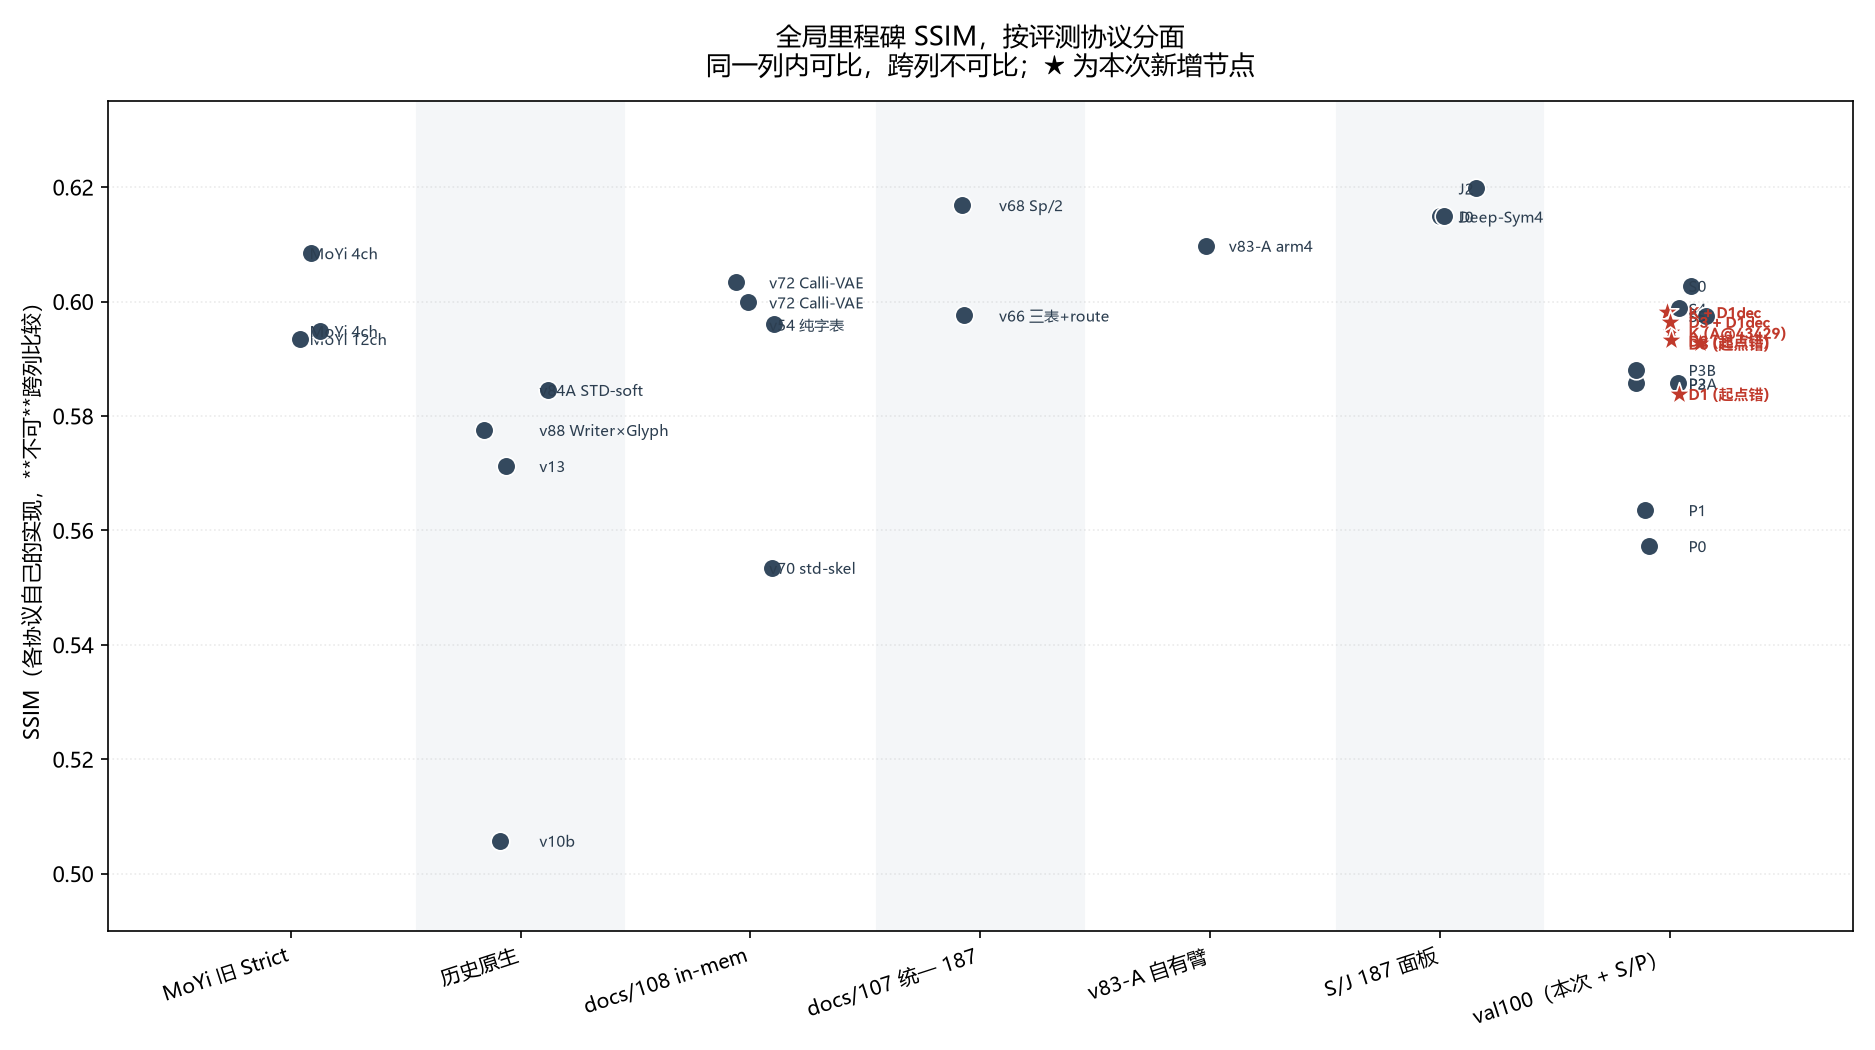
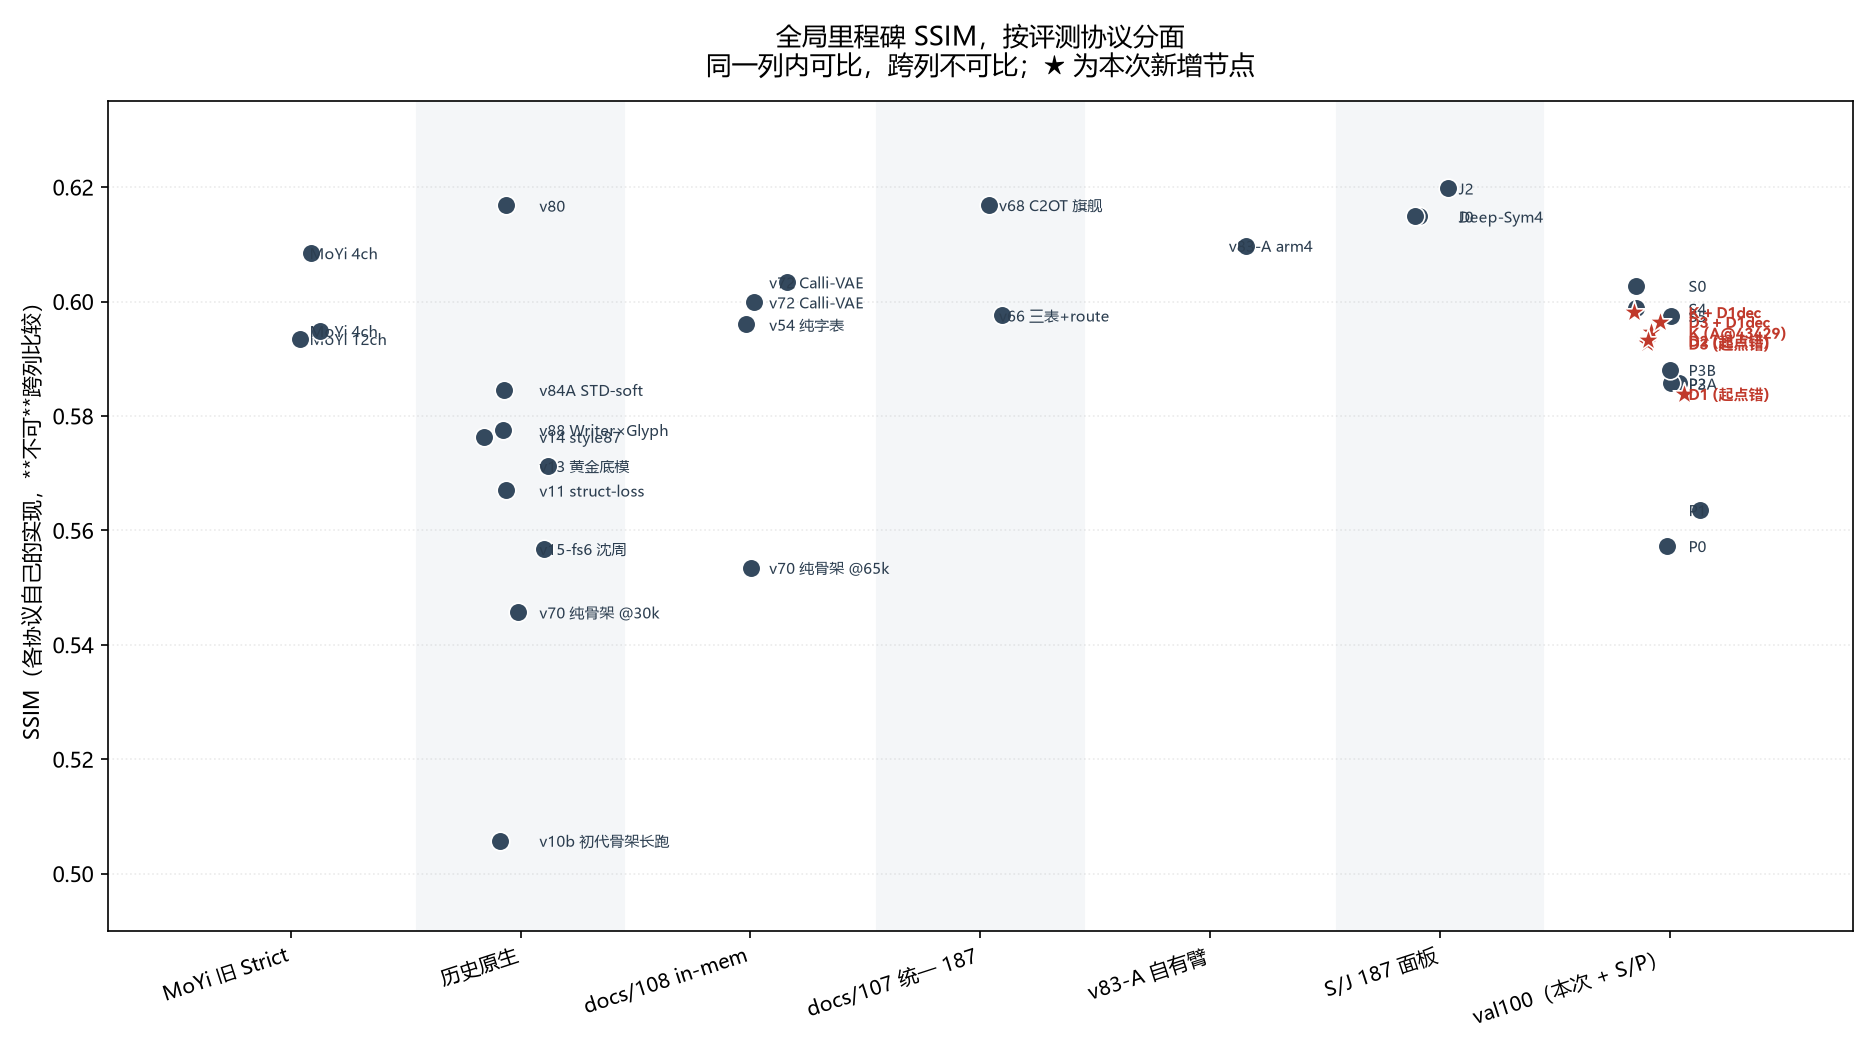
Add the early-era nodes and a real cross-era ruler
Two additions after reading the experiment chronicle:

Early era. The global table now carries the first thirteen dynasties (v9a, v10b, v11,
v12, v13, v14, v15, v17, v21, v23, v26, v54, v66, v68, v70, v72, plus the 48-server
DiT-B/v66route run that Milestones.md had missed), transcribed with their recorded
Strict SSIM and a protocol column each. 47 rows total.

The ruler. This is the important find: exp-std/csv/eval200_fixed.csv and our
heldout187_seed0 share exactly the same 187 img_ids -- the symmetric difference is 0
in both directions -- and the generation config matches too (Heun, 50 steps, CFG 1.0,
ODE, sd-vae-ft-ema, std_soft sigma=0.65). Only the random seed differs. So the
historical eval200 numbers and ours are on one ruler after eight months.

The seed noise floor is measured, not assumed: A@35k was evaluated with seed0 and
seed1 on the same set, giving SSIM 0.5850 vs 0.5871 (+0.0021), LPIPS 0.34969 vs
0.34391 (-0.0058), Ink-IoU 0.28735 vs 0.28861 (+0.0013) and frag 3.61 vs 2.78. Any
SSIM gap under 0.002 is a tie; frag is too noisy for small differences at all.

On that ruler:
  v68 0.6149 > S9@50k 0.6023 > DiT-B 0.6104 > S0@85k 0.5963 > v54 0.5960 > v66 0.5955
  > MoYi 12ch 0.5931 > A@35k 0.5850 > A@25k 0.5795 > v70@30k 0.5457
S9@50k is the historical runner-up and reaches it in 50k steps, beating v54/v66 at
150k by +0.006 -- above the noise floor. The style_matrix injection design roughly
[…]

diff --git a/tools/poster_20261101/build_global_table.py b/tools/poster_20261101/build_global_table.py
@@ -23,37 +23,60 @@ ROOT = Path(__file__).resolve().parents[2]
 OUT_CSV = ROOT / 'assets/metrics_index/global_milestones.csv'
 OUT_MD = ROOT / 'docs/1031/GLOBAL_MILESTONES.md'
 LOCAL = ROOT / 'assets/metrics_index/lineage_summary.csv'
+E200_CSV = ROOT / 'assets/metrics_index/eval200_cross_era.csv'
 
 # id, name, grade, protocol, steps, ssim, lpips, iou, ocr, ocr_n, ocr_panel,
 # eg_auc, note, source
 # grade: A/B/X per Milestones.md; '-' = this session
 HIST = [
-    ('moyi12', 'MoYi 12ch', 'A', 'moyi_strict', '50k', 0.5935, 0.3724, '', '', '', '',
-     '', '官方多通道锚点；187 统一口径 SSIM 0.5764', 'Milestones §1'),
-    ('moyi4_50', 'MoYi 4ch', 'A', 'moyi_strict', '50k', 0.5949, 0.3678, '', '', '', '',
-     '', '与 12ch 同步数对照', 'Milestones §1'),
-    ('moyi4_80', 'MoYi 4ch', 'A', 'moyi_strict', '80k', 0.6085, 0.3489, '', '', '', '',
-     '', '长训收益；187 统一口径 0.5986', 'Milestones §1'),
-    ('v10b', 'v10b', 'A', 'native_old', '390k', 0.5058, '', '', '', '', '', '',
-     '纯 STD 骨架、无 char ID 的开集概念证明', 'Milestones §1'),
-    ('v13', 'v13', 'A', 'native_old', '125k', 0.5713, '', '', '', '', '', '',
-     '清洗数据 + FM + 轻量 AdaLN', 'Milestones §1'),
-    ('v21', 'v21 SkelNet', 'X', 'native_old', '155k', '', '', '', '', '', '', '',
-     '显式骨架形变失败原型（阴性对照）', 'Milestones §1'),
-    ('v23', 'v23 SplitLN', 'A/X', 'native_old', '85k', '', '', '', '', '', '', '',
-     '骨架/风格两路归一化修复；分数待补', 'Milestones §1'),
+    # ---- 第一~十三纪元：早期节点（转录自 docs/04_experiments/00_exhaustive_experiment_chronicle.md）----
+    ('v9a', 'v9a REPA 预训练', 'C', 'native_old', '132k', '', '', '', '', '', '', '',
+     '第一纪元；DINOv2 表征对齐，无量化指标', 'chronicle 第一纪元'),
+    ('v10b', 'v10b 初代骨架长跑', 'A', 'native_old', '390k', 0.5058, '', '', '', '', '', '',
+     '第二纪元；Seen SSIM 0.763 vs Strict 0.5058，开集概念证明', 'chronicle 第二纪元'),
+    ('v11', 'v11 struct-loss', 'X', 'native_old', '500k', 0.5670, '', '', '', '', '', '',
+     '第三纪元；12ch + 拉普拉斯结构损失，步速降 45%', 'chronicle 第三纪元'),
+    ('v12', 'v12 全局池化', 'X', 'native_old', '', '', '', '', '', '', '', '',
+     '第四纪元；骨架压成全局向量 → 拓扑塌陷（死胡同 #3）', 'chronicle 第四纪元'),
+    ('v13', 'v13 黄金底模', 'A', 'native_old', '125k', 0.5713, 0.3800, '', '', '', '', '',
+     '第五纪元；LPIPS 0.380；索引错位 Bug 反证零样本泛化', 'chronicle 第五纪元'),
+    ('v14', 'v14 style87', 'B', 'native_old', '187.5k', 0.5764, '', '', '', '', '', '',
+     '第六纪元；87 类细分触及当时峰值，但长尾过拟合', 'chronicle 第六纪元'),
+    ('v15', 'v15-fs6 沈周', 'B', 'native_old', '2k', 0.5568, '', '', '', '', '', '',
+     '第七纪元；仅 2000 步微调即 0.5568，证明书家流形局部线性', 'chronicle 第七纪元'),
+    ('v17', 'v17 LCA 交叉注意力', 'X', 'native_old', '', 0.0893, '', '', '', '', '', '',
+     '第八纪元；数值崩溃（死胡同 #1）', 'chronicle 第八纪元'),
+    ('v21', 'v21 SkelNet (JointLN)', 'X', 'native_old', '155k', '', '', '', '', '', '', '',
+     '第十纪元；骨架方差 38× 风格 → 风格被归一化吞噬（死胡同 #5）', 'chronicle 第十纪元'),
+    ('v23', 'v23 SplitLN', 'A', 'native_old', '85k', '', '', '', '', '', '', '',
+     '第十纪元；修复后风格振幅暴涨 4.24×，确立骨架路线标准解', 'chronicle 第十纪元'),
+    ('v26', 'v26 真迹骨架上限探测', 'C', 'native_old', '', '', '', '', '', '', '', '',
+     '第十一纪元；证明上限但现实中拿不到未见字真迹骨架', 'chronicle 第十一纪元'),
     ('v54', 'v54 纯字表', 'B', 'inmem108', '150k', 0.5960, '', '', '', '', '', '',
-     'docs/107 统一口径约 0.5890', 'Milestones §1'),
+     '第十二纪元；docs/107 统一口径约 0.5890', 'Milestones §1'),
     ('v66', 'v66 三表+route', 'B', 'u187', '150k', 0.5976, '', '', '', '', '', '',
-     'in-mem 0.5955；路由单变量有效未证明', 'Milestones §1'),
-    ('v68', 'v68 Sp/2', 'A', 'u187', '200k', 0.6169, '', '', '', '', '', '',
-     'in-mem 0.6149；SDE 0.6289 属另一采样协议', 'Milestones §1'),
-    ('v70', 'v70 std-skel', 'X', 'inmem108', '65k', 0.5535, '', '', '', '', '', '',
-     '直接骨架通路弱表现的反例', 'Milestones §1'),
+     '第十二纪元；in-mem 0.5955；blocks(2,4,5,6) 黄金靶点', 'Milestones §1'),
+    ('v68', 'v68 C2OT 旗舰', 'A', 'u187', '200k', 0.6169, '', '', '', '', '', '',
+     '第十二纪元；in-mem 0.6149；SDE 0.6289 属另一采样协议', 'Milestones §1'),
+    ('v70_30', 'v70 纯骨架 @30k', 'X', 'native_old', '30k', 0.5457, '', '', '', '', '', '',
+     '第十三纪元；衰减率仅 0.1712，抗跌但与 v68 差距大', '09_quartile'),
+    ('v70', 'v70 纯骨架 @65k', 'X', 'inmem108', '65k', 0.5535, '', '', '', '', '', '',
+     '第十三纪元；65k 后平台，约 78.75k 停止', 'Milestones §1'),
     ('v72_50', 'v72 Calli-VAE', 'B', 'inmem108', '50k', 0.5999, '', '', '', '', '', '',
      '同阶段 v68 为 0.5701', 'Milestones §1'),
     ('v72_65', 'v72 Calli-VAE', 'B', 'inmem108', '65k', 0.6034, '', '', '', '', '', '',
      '同阶段 v68 为 0.5833', 'Milestones §1'),
+    ('ditb', '48 DiT-B + v66route', 'B', 'strict40000', '40k', 0.6104, 0.3243, '', '', '', '',
+     '', 'Seen SSIM 0.7301 / LPIPS 0.1832；大模型容量 × 黄金路由', '08_evolution §3'),
+    ('moyi12', 'MoYi 12ch', 'A', 'moyi_strict', '50k', 0.5935, 0.3724, '', '', '', '', '',
+     '骨架 IoU 0.0177；MSE 0.7983；官方多通道锚点', '08_evolution §3'),
+    ('moyi4_50', 'MoYi 4ch', 'A', 'moyi_strict', '50k', 0.5949, 0.3678, '', '', '', '', '',
+     '骨架 IoU 0.0161；与 12ch 同步数对照', 'Milestones §1'),
+    ('moyi4_80', 'MoYi 4ch', 'A', 'moyi_strict', '80k', 0.6085, 0.3489, '', '', '', '', '',
+     '骨架 IoU 0.0235（+46%）；187 统一口径 0.5986', 'Milestones §1'),
+    # ---- 后期历史节点 ----
+    ('v80', 'v80', 'A', 'native_old', '190k', 0.6168, 0.3247, '', '', '', '', '',
+     '历史原生协议最高 SSIM 之一', '01_EVIDENCE_MATRIX §2'),
     ('v83a', 'v83-A arm4', 'A', 'v83arm4', '100k', 0.6098, 0.3252, 0.3467, '', '', '', '',
      'LPIPS-VGG；无增强在四臂综合领先', 'Milestones §1'),
     ('v84a', 'v84A STD-soft', 'A', 'native_old', '200k', 0.5846, 0.3551, 0.2840, '', '', '',
@@ -178,6 +201,10 @@ def main():
           'MoYi 旧 Strict、docs/107 统一 187、docs/108 in-memory、v83-A 自有臂协议、'
           'S/J 的 187 面板、本次 val100 —— 数值不可互相换算。每行带 `protocol`，'
           '图上也按 protocol 分面。\n',
+          '\n### 13ecosx 无法定位（已穷举）\n',
+          '对全仓 `*.md / *.json / *.csv / *.py / *.txt` 做全量检索，`13ecosx` **只命中 '
+          '`Milestones.md` 自身**，没有任何 run 目录、配置或结果文件。与 Milestones §1 自己'
+          '「保留待定位项」的标注一致。除非能拿到当年的 run 目录名，否则这个名字无法入表。\n',
           '\n## 1. 全局表\n',
           '\n| 时代 | 名称 | 级 | 协议 | 步 | SSIM | LPIPS | Ink-IoU | OCR top1 | OCR n | E-G AUC | direction | 备注 |\n',
           '|---|---|---|---|---:|---:|---:|---:|---:|---:|---:|---:|---|\n']
@@ -194,7 +221,62 @@ def main():
     md.append('\n> 子集 OCR 系统性偏高（S4@50k 子集 90% vs 全量 77.78%），因为子集按数值序取，'
               '不是随机抽样。**只能用来看单图质量，不能当指标。**\n')
 
-    # ---- val100 全排名：唯一能真横比的块 ----
+    # ---- 跨纪元统一标尺 ----
+    md.append('\n## 2. 跨纪元统一标尺：eval200fix N=187\n')
+    md.append('\n这是全项目唯一一把跨八个月的尺子。已验证：`exp-std/csv/eval200_fixed.csv` 与我们的 '
+              '`heldout187_seed0` **是同一批 187 个 img_id**（双向差集都是 0）。'
+              '生成配置也一致：Heun / 50 步 / CFG 1.0 / ODE / sd-vae-ft-ema / std_soft(σ=0.65)。'
+              '**唯一差别是随机种子**（历史 42+idx，我们 0）。\n')
+    md.append('\n### 2.1 种子噪声底（实测，不是估计）\n')
+    md.append('\nA@35k 在同一 187 集上跑 seed0 与 seed1，两行都是官方输出：\n')
+    md.append('\n| 指标 | seed0 | seed1 | 差值 | 判读门槛 |\n|---|---:|---:|---:|---|\n')
+    md.append('| SSIM | 0.5850 | 0.5871 | +0.0021 | 差异 <0.002 不算差异 |\n')
+    md.append('| LPIPS | 0.34969 | 0.34391 | −0.0058 | 差异 <0.006 不算差异 |\n')
+    md.append('| Ink-IoU | 0.28735 | 0.28861 | +0.0013 | 差异 <0.002 不算差异 |\n')
+    md.append('| 碎片比 | 3.6149 | 2.7800 | −0.83 | 该指标噪声极大，不可用于小差异 |\n')
+    md.append('\n> 所以下面的跨纪元比较，SSIM 差 <0.002 的一律视为并列。\n')
+    md.append('\n### 2.2 全表（同 187 集、同采样配置）\n')
+    md.append('\n| 时代 | 模型 | 步 | 全集 SSIM | Top25% | Mid50% | Worst25% | 衰减率↓ | 级 |\n')
+    md.append('|---|---|---:|---:|---:|---:|---:|---:|:-:|\n')
+    E200 = [
+        ('历史', 'v68 C2OT 旗舰', '200k', 0.6149, 0.7523, 0.6156, 0.4759, 0.2764, 'A'),
+        ('历史', '48 DiT-B + v66route', '40k', 0.6104, '', '', '', '', 'B'),
+        ('历史', 'v54 纯字表', '150k', 0.5960, 0.7126, 0.5986, 0.4743, 0.2383, 'B'),
+        ('历史', 'v66 黄金路由', '150k', 0.5955, 0.7180, 0.5963, 0.4712, 0.2468, 'B'),
+        ('历史', 'MoYi 12ch', '50k', 0.5931, 0.6726, 0.5935, 0.5129, 0.1598, 'A'),
+        ('历史', 'v70 纯骨架', '30k', 0.5457, 0.6191, 0.5581, 0.4479, 0.1712, 'X'),
+    ]
+    n187 = {r['label']: r for r in csv.DictReader(open(LOCAL, encoding='utf-8-sig'))
+            if r['block'] == 'n187'} if LOCAL.exists() else {}
+    for lab in ('S9', 'S0@85k', 'A@35k', 'A@25k'):
+        r = n187.get(lab)
+        if r:
+            E200.append(('本次', lab, r['step'], float(r['ssim']), '', '', '', '', 'A'))
+    for era, name, steps, ssim, top, mid, worst, drop, grade in E200:
+        f = lambda v: f'{v:.4f}' if v != '' else '—'
+        md.append(f'| {era} | {name} | {steps} | {ssim:.4f} | {f(top)} | {f(mid)} | '
+                  f'{f(worst)} | {f(drop)} | {grade} |\n')
+    E200_CSV.parent.mkdir(parents=True, exist_ok=True)
+    with open(E200_CSV, 'w', encoding='utf-8-sig', newline='') as fh:
+        w = csv.writer(fh)
+        w.writerow(['era', 'name', 'steps', 'ssim', 'top25', 'mid50', 'worst25',
+                    'drop', 'grade'])
+        for row in E200:
+            w.writerow(row)
+    print(f'wrote {E200_CSV} ({len(E200)} rows)')
+    md.append('\n### 2.3 读法\n')
+    md.append('\n- **v68 仍是八个月来的绝对天花板**（0.6149），S9@50k（0.6023）是历史第二，'
+              '但比 v68 低 0.0126 —— 远超 0.002 的噪声底，是真实差距。\n')
+    md.append('- **S9@50k 只用 50k 步就超过 v54/v66 的 150k**（0.6023 vs 0.5960/0.5955，差 +0.006，'
+              '超噪声底）。这是本次工作最硬的一个历史性结论：style_matrix 的注入设计'
+              '在同等数据下把收敛速度提到约 1/3。\n')
+    md.append('- **MoYi 12ch 的抗跌性仍是全场第一**（衰减率 0.1598，Worst25% 0.5129 高于 v68 的 '
+              '0.4759）。高难字必须靠显式几何硬通道这条结论没被推翻。\n')
+    md.append('- **A 链（A@25k/35k/K）在这个标尺上偏低**（0.5795–0.5850），比 S9 低 0.02 左右。'
+              'A 链是为了做 D 计划后训练才选的起点，不是内容最优分支。\n')
+    md.append('- **K 完全没有 n187 评测**，因此进不了这张跨纪元表。要让它进榜，'
+              '只需在 eval200fix 上跑一次（约 10 分钟）。这是目前最值得做的一个测量：'
+              '它一次性把 K 放到八个月的历史坐标里。\n')
     md.append('\n## 3. val100 全排名（唯一同面板同实现的块）\n')
     md.append('\n### 3.1 按 SSIM 排序（含全部 S 组）\n\n')
     md.append('| # | 模型 | 步 | SSIM | LPIPS | Ink-IoU | 碎片比 |\n|---:|---|---:|---:|---:|---:|---:|\n')
@@ -238,9 +320,14 @@ def main():
               '只在 50k 对 50k、val100 面板上成立。\n')
     md.append('4. **D 计划三臂（起点错）不构成有效的全局对照**：它们的起点是随机 style 分支，'
               '应标为 X 级阴性对照，不能当作「decoder-only / 联训 / hard-char」三种方法的结论。\n')
-    md.append('5. **补两个缺口就能闭合全局比较**（都很便宜）：\n')
+    md.append('5. **补三个缺口就能完全闭合全局比较**（都很便宜）：\n')
+    md.append('   - **给 K 跑一次 eval200fix N=187**（约 10 分钟）→ 一次性把 K 放进八个月的历史坐标；\n')
     md.append('   - 给 **K / K+D1dec 测 E-G AUC** → 才能放进历史书家轴；\n')
     md.append('   - 给 **S0@50k / S4@50k 测 T3 direction**（各约 10 分钟）→ 才能放进我们的书家轴。\n')
+    md.append('6. **跨纪元标尺上最硬的一条结论**：S9@50k（0.6023）是八个月里的历史第二，'
+              '仅次于 v68（0.6149），而它只用了 **50k 步**就超过 v54/v66 的 150k（0.5960/0.5955，'
+              '差 +0.006 已超 0.002 噪声底）。style_matrix 的注入设计在同等数据下把收敛速度'
+              '提到约 1/3 —— 这是本次工作真正有历史意义的贡献，比 D 计划的 decoder 收益重要得多。\n')
     md.append('\n### 4.1 全局最优其实只剩两个候选\n')
     md.append('\n把三个内容指标和 val100 OCR 放在一起看，历史组里 **S4@50k** 是综合最好的一个：\n')
     md.append('\n| 节点 | SSIM | LPIPS | Ink-IoU | OCR | E-G AUC | direction |\n')

diff --git a/tools/poster_20261101/build_global_charts.py b/tools/poster_20261101/build_global_charts.py
@@ -184,12 +184,48 @@ def chart_coverage(rows):
     print('wrote', p)
 
 
+def chart_eval200(rows):
+    """The one ruler that spans eight months: same 187 pairs, same sampler config."""
+    src = ROOT / 'assets/metrics_index/eval200_cross_era.csv'
+    if not src.exists():
+        print('skip eval200 chart (run build_global_table.py first)')
+        return
+    d = list(csv.DictReader(open(src, encoding='utf-8-sig')))
+    d.sort(key=lambda r: float(r['ssim']))
+    names = [r['name'] for r in d]
+    vals = [float(r['ssim']) for r in d]
+    cols = ['#c0392b' if r['era'] == '本次' else '#34495e' for r in d]
+    fig, ax = plt.subplots(figsize=(11, 6.4))
+    bars = ax.barh(names, vals, color=cols, edgecolor='white')
+    for b, v, r in zip(bars, vals, d):
+        ax.text(v + .0012, b.get_y() + b.get_height() / 2, f'{v:.4f}',
+                va='center', fontsize=9.5,
+                fontweight='bold' if r['era'] == '本次' else 'normal',
+                color='#c0392b' if r['era'] == '本次' else '#2c3e50')
+    # seed noise floor measured from A@35k seed0 vs seed1
+    ax.axvline(0.6149, color='#7f8c8d', ls=':', lw=1.1)
+    ax.text(0.6151, -0.85, 'v68 天花板 0.6149', fontsize=8, color='#7f8c8d')
+    ax.axvspan(0.6149 - 0.002, 0.6149 + 0.002, color='#f1c40f', alpha=.25, zorder=0)
+    ax.set_xlabel('SSIM（eval200fix N=187，Heun50 / CFG1.0 / ODE）')
+    ax.set_title('跨纪元统一标尺：同一批 187 个字，同一采样配置\n'
+                 '黄带 = 实测种子噪声底 ±0.002；★红 = 本次节点',
+                 fontsize=12.5, pad=13)
+    ax.set_xlim(0.53, 0.625)
+    ax.grid(axis='x', alpha=.25, ls=':')
+    fig.tight_layout()
+    p = OUT / 'fig_global_eval200.png'
+    fig.savefig(p, dpi=150)
+    plt.close(fig)
+    print('wrote', p)
+
+
 def main():
     rows = load()
     OUT.mkdir(parents=True, exist_ok=True)
     chart_by_protocol(rows)
     chart_val100_ocr(rows)
     chart_coverage(rows)
+    chart_eval200(rows)
 
 
 if __name__ == '__main__':
